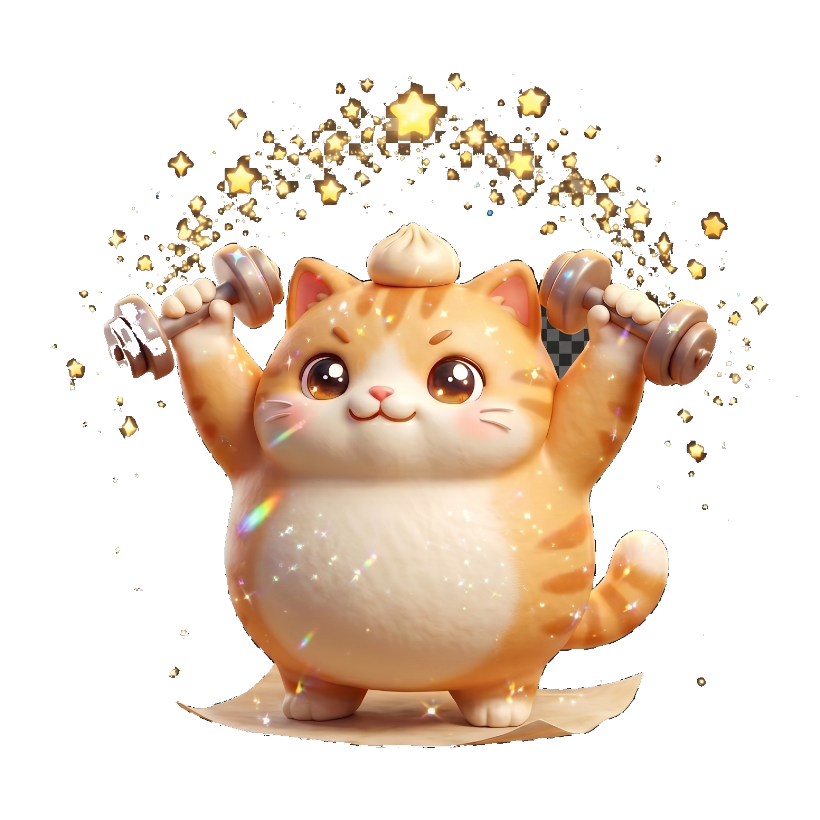
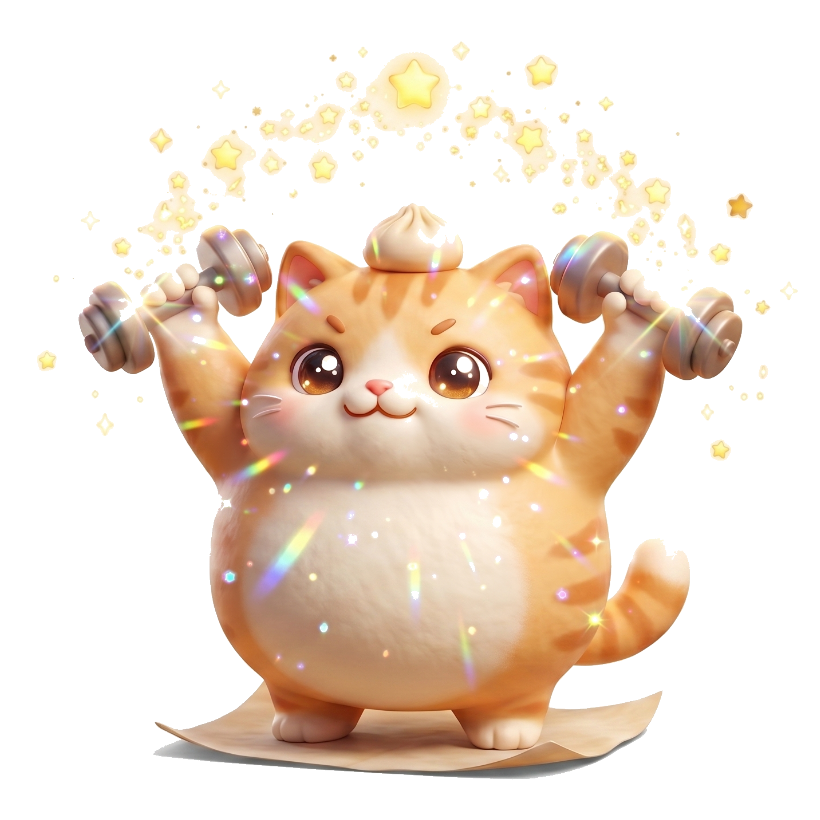
Mèo bánh bao: ảnh nền trắng mới, tách bằng chroma (hết lốm đốm)
- Thay mascot_sq.png bằng ảnh AI nền trắng (xcqz7p), tách nền bằng chroma
  (max-min) thay vì saturation HSL (vốn nổ tung với pixel gần trắng)
- Giữ sao + bụi lung linh + ánh cầu vồng, căn giữa, bỏ sao lẻ góc
- Bump SW cache v21

diff --git a/sw.js b/sw.js
@@ -1,5 +1,5 @@
 // MèoFit service worker — chạy offline. Bump CACHE khi đổi nội dung để cập nhật.
-const CACHE = 'meofit-v20';
+const CACHE = 'meofit-v21';
 const SHELL = ['./', './index.html', './manifest.webmanifest', './logo.png', './mascot_sq.png', './lift-sprite.png', './icon-192.png', './icon-512.png', './icon-512-maskable.png', './icon-180.png'];
 
 self.addEventListener('install', e => {